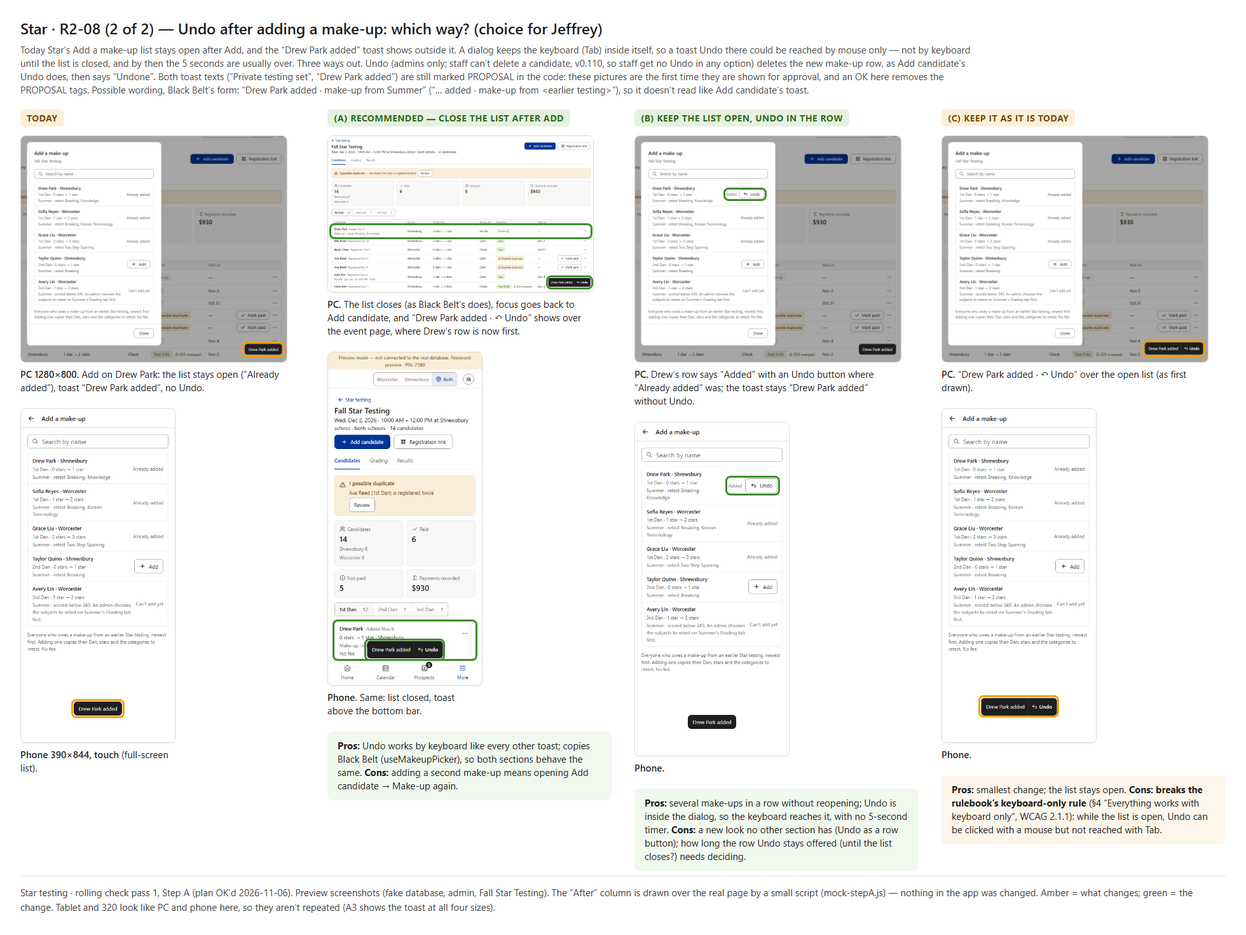
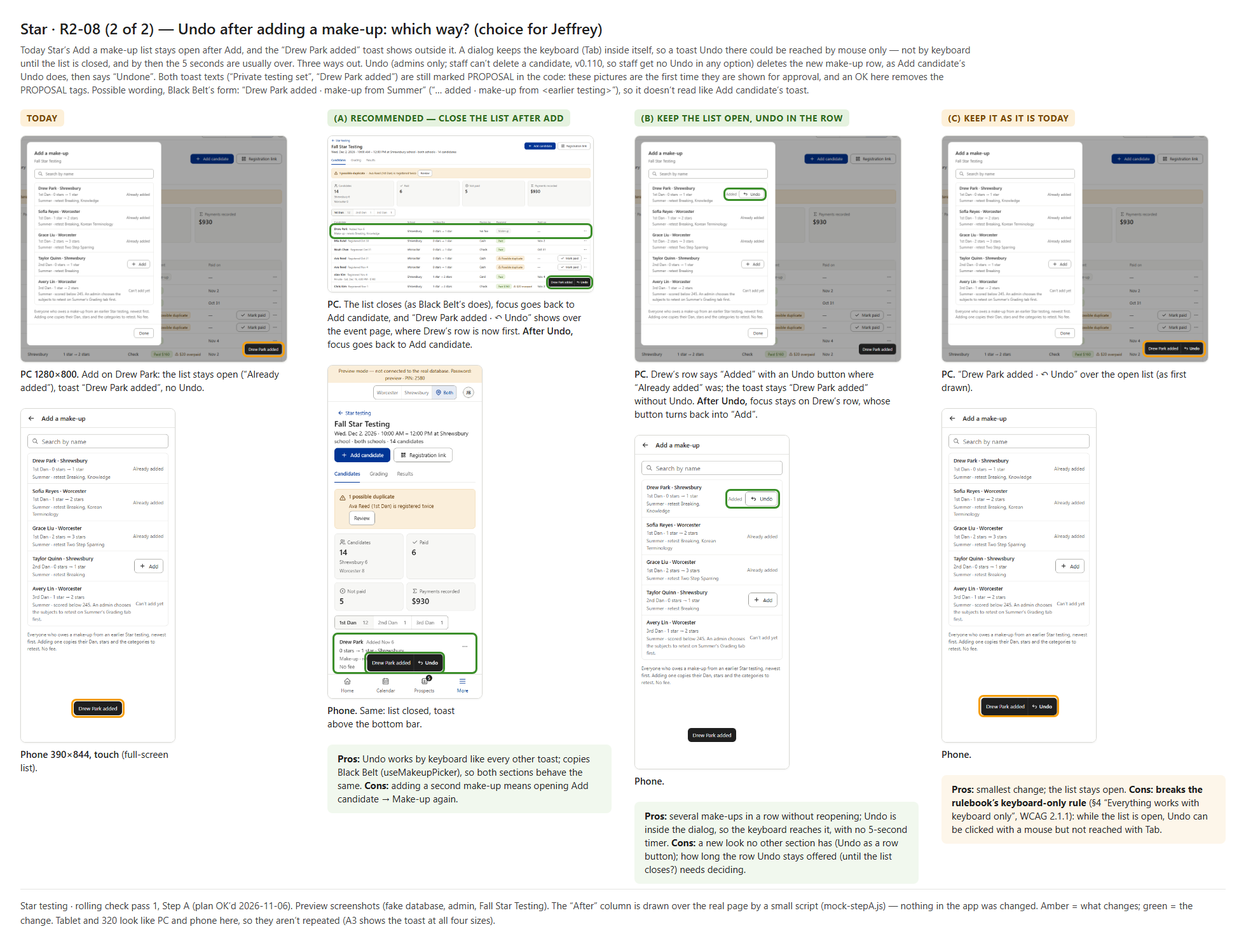
Star: mockups fixed after second review (A3b, B2, C1 as a 640/696 choice)

diff --git a/docs/Testing/Star Testing/Rolling check mockups/C1-roster-room.html b/docs/Testing/Star Testing/Rolling check mockups/C1-roster-room.html
@@ -24,7 +24,7 @@
   .foot { margin-top: 8px; padding-top: 14px; border-top: 1px solid #E5E5E2; color: #3A3A3A; font-size: 15px; line-height: 1.55; }
 </style></head><body>
 <h1>Star · L-02 (pass 2) — the candidate roster follows the room beside the panel</h1>
-<p class="sub">Fall Star Testing, Candidates tab, both schools shown (the widest case: the second line carries the school). Today the roster picks its tablet columns from the window’s width, so with the side panel taking 72 px (Standard) or 96 px (Largest) the Candidate and Testing for columns get squeezed to 40–60 px and text runs into text. After (v1.053, built per v1.130): <code>const narrowRoom = usePageRoomBelow(640); const stacked = isPhone || narrowRoom;</code> for the roster only. <b>Limit: 640 px of room.</b> Below it the roster draws the phone’s stacked rows (the ones phones already show); at 640 and above nothing changes. Dialogs, ⋯ menus and the rest of the page keep following the window.</p>
+<p class="sub">Fall Star Testing, Candidates tab, both schools shown (the widest case: the second line carries the school). Today the roster picks its tablet columns from the window’s width, so with the side panel taking 72 px (Standard) or 96 px (Largest) the Candidate and Testing for columns get squeezed to 40–60 px and text runs into text. After (v1.053, built per v1.130): <code>const narrowRoom = usePageRoomBelow(LIMIT); const stacked = isPhone || narrowRoom;</code> for the roster only. Below the limit the roster draws the phone’s stacked rows (the ones phones already show); at or above it nothing changes. <b>The limit is a choice for you (bottom of the picture): (a) 640 or (b) 696 px of room. Recommended: (b) 696.</b> Every size in the Today/After columns stacks with either limit.Dialogs, ⋯ menus and the rest of the page keep following the window.</p>
 <div class="cols">
 <div class="col today">
   <div class="label">Today</div>
@@ -70,7 +70,7 @@
       <img src="shots/c-683S-after.png" style="left:0px;top:0px;width:546.4px">
       
     </div>
-    <figcaption><b>683 wide, touch, Standard</b> (room beside the panel 611 px). Room 611 &lt; 640: stacked rows. Name + Registered, stars · school, paying by · paid on, tag + Mark paid, ⋯ on the right.</figcaption>
+    <figcaption><b>683 wide, touch, Standard</b> (room beside the panel 611 px). Room 611, under either limit: stacked rows. Name + Registered, stars · school, paying by · paid on, tag + Mark paid, ⋯ on the right.</figcaption>
   </figure><figure style="width:546.4px">
     <div class="shot" style="width:546.4px;height:608px">
       <img src="shots/c-683L-after.png" style="left:0px;top:0px;width:546.4px">
@@ -83,7 +83,7 @@
       <img src="shots/c-700S-after.png" style="left:0px;top:0px;width:560px">
       
     </div>
-    <figcaption><b>700 wide, touch, Standard</b> (room beside the panel 628 px). Room 628 &lt; 640: stacked rows. (Today this size has no text over text, but the columns are too narrow to read — see the Today shot.)</figcaption>
+    <figcaption><b>700 wide, touch, Standard</b> (room beside the panel 628 px). Room 628, under either limit: stacked rows. (Today this size has no text over text, but the columns are too narrow to read — see the Today shot.)</figcaption>
   </figure><figure style="width:560px">
     <div class="shot" style="width:560px;height:608px">
       <img src="shots/c-700L-after.png" style="left:0px;top:0px;width:560px">
@@ -98,14 +98,21 @@
     </div>
     <figcaption><b>667 wide, touch, Largest</b> (room beside the panel 571 px). Room 571: stacked rows; the panel stays on the left (the window is still a tablet’s width).</figcaption>
   </figure>
-  <div class="note"><b>How the limit was measured.</b> The real roster in preview, touch, admin, details shown, both schools (the widest case), Panel size Largest, window 640–1024 px in 1–8 px steps; for each width: the room (the page area’s own <code>data-page-room</code>), text boxes of two cells of one row that overlap, and cells whose text is wider than the cell. <b>Text over text</b> stops at room 617; <b>text sticking out of its column</b> stops at 636 (632 still has 6); 640 is the first clean round number above both and the same as Dashboard core’s sample (<code>parts.html#L02/room</code>). Standard gives the same results at the same room (the room is what counts). With a mouse the actions column is 24 px narrower, so the roster is clean from about 616: 640 covers both. One school selected and Hide private details need less room. PC columns (1024+) are clean at 1024 with Largest (room 928). <b>Your call if you want more:</b> at room 640–695 the tablet columns are clean but tight (names on 4–5 lines, “Testing for” header on 2 lines); from <b>696</b> they look exactly as at 820 (the approved tablet). A limit of 696 would also stack 700 / 720 / 760-wide windows with Largest.</div>
+  <div class="note"><b>How the limit was measured.</b> The real roster in preview, touch, admin, details shown, both schools (the widest case), Panel size Largest, window 640–1024 px in 1–8 px steps; for each width: the room (the page area’s own <code>data-page-room</code>), text boxes of two cells of one row that overlap, and cells whose text is wider than the cell. <b>Text over text</b> stops at room 617; <b>text sticking out of its column</b> stops at 636 (632 still has 6); <b>640</b> is the first round number above both. From room <b>696</b> the columns look exactly as at 820 (the approved tablet): the “Testing for” header fits on one line from 684, and names take at most 3 lines from 692–696. Standard gives the same results at the same room (the room is what counts). With a mouse the actions column is 24 px narrower, so the roster is clean from about 616. One school selected and Hide private details need less room. PC columns (1024+) are clean at 1024 with Largest (room 928). <b>Measured in Chrome on Windows, so in Segoe UI</b> (the app’s font list is system-ui, -apple-system, Segoe UI, Roboto). An iPad draws San Francisco, which is probably a little wider, so the build re-measures in the app’s own font on an iPad before the number is final.</div>
 </div>
 </div>
-<div class="foot"><div class="label" style="background:#ECECE8;color:#3A3A3A">Unchanged</div>
+<div class="foot"><div style="display:flex;gap:36px;align-items:flex-start;margin-bottom:28px">
+<div class="col today" style="flex:1"><div class="label">(a) Limit 640: the tight columns stay</div>
+<figure style="width:576px"><div class="shot" style="width:576px;height:800px"><img src="shots/c-720S-today.png" style="left:0;top:0;width:576px"><div class="mark" style="left:143.20000000000002px;top:116px;width:46.400000000000006px;height:33.6px;border-color:#F59E0B"></div><div class="mark" style="left:81.60000000000001px;top:152.8px;width:65.6px;height:65.6px;border-color:#F59E0B"></div></div><figcaption><b>720 wide, touch, Standard</b> (room 648, between the two limits). No text over text and nothing sticks out, but the Candidate column is about 70 px and Testing for about 42 px. The “Testing for” header takes 2 lines (outlined); names and “Shrewsbury · Registered Oct 30” take 3–5 lines (outlined); “0 stars → 1 star” takes 3.</figcaption></figure>
+<div class="note"><b>Pros:</b> the most columns on screen; Paying by and Payment line up across the rows. <b>Cons:</b> rooms of 640–695 keep columns nobody approved (only the 820 ones were); only 4 px of margin over the overflow measured in Segoe UI, so an iPad’s wider font may make “Shrewsbury” stick out again.</div></div>
+<div class="col after" style="flex:1"><div class="label">(b) Limit 696 (recommended): stacked rows</div>
+<figure style="width:576px"><div class="shot" style="width:576px;height:800px"><img src="shots/c-720S-after.png" style="left:0;top:0;width:576px"></div><figcaption><b>720 wide, touch, Standard</b> (room 648, under 696): the phone’s stacked rows, each line whole.</figcaption></figure>
+<div class="note"><b>Pros:</b> v1.053 says to stack when the room is “too narrow for its tablet columns”, and the only approved tablet columns are the 820 ones, which the roster matches only from 696; it also absorbs font differences between devices. <b>Cons:</b> windows 712–767 wide (Standard) and 736–791 wide (Largest) get the phone rows instead of columns. That includes a 744 iPad mini held upright, and a 768 iPad with Largest. (The phone rows work fully, with touch sizes and no sideways scroll.)</div></div>
+</div><div class="label" style="background:#ECECE8;color:#3A3A3A">Unchanged</div>
 <div class="row">
 <figure style="width:768px"><div class="shot" style="width:768px;height:480px"><img src="shots/c-1280-today.png" style="left:0;top:0;width:768px"></div><figcaption><b>PC 1280×800, mouse</b> (room 1228): PC columns, as today.</figcaption></figure>
 <figure style="width:369px"><div class="shot" style="width:369px;height:531px"><img src="shots/c-820S-today.png" style="left:0;top:0;width:369px"></div><figcaption><b>820×1180 touch, Standard</b> (room 748): tablet columns, as today.</figcaption></figure>
-<figure style="width:369px"><div class="shot" style="width:369px;height:531px"><img src="shots/c-820L-today.png" style="left:0;top:0;width:369px"></div><figcaption><b>820 touch, Largest</b> (room 724 ≥ 640): tablet columns, as today.</figcaption></figure>
+<figure style="width:369px"><div class="shot" style="width:369px;height:531px"><img src="shots/c-820L-today.png" style="left:0;top:0;width:369px"></div><figcaption><b>820 touch, Largest</b> (room 724, above both limits): tablet columns, as today.</figcaption></figure>
 <figure style="width:234px"><div class="shot" style="width:234px;height:506.4px"><img src="shots/c-390-today.png" style="left:0;top:0;width:234px"></div><figcaption><b>390×844 touch</b>: phone rows, as today.</figcaption></figure>
 <figure style="width:192px"><div class="shot" style="width:192px;height:420px"><img src="shots/c-320-today.png" style="left:0;top:0;width:192px"></div><figcaption><b>320 wide, touch</b>: phone rows, as today.</figcaption></figure>
 </div><p style="margin-top:16px"><b>How the pictures were made.</b> Star testing · rolling check pass 2, L-02. Preview screenshots (fake database, admin, Fall Star Testing, “Show both schools”), Panel size set through the Account menu. <b>Today</b> = the app as it is. <b>After</b> = drawn on the real page by mock-room.js: the phone roster’s own markup was copied from the app at a 600 px phone window (same event, same rows) and put in place of the tablet roster at each target size. Its styles (<code>.st-crow-c.is-phone</code>, <code>.ev-srow-main</code> …) are not behind a phone-width rule, so they draw as they will once the roster follows a class. So the rows are exactly the phone’s; what a copy can’t show: buttons don’t work in the drawn roster, and the tablet page around it (summary cards, Dan switch, top bar) is today’s — which is also what the change keeps. Nothing in the app was changed. Amber = text over text, or text sticking out of its column.</p></div>

diff --git a/docs/Testing/Star Testing/Rolling check mockups/B2-date-signed-staff.html b/docs/Testing/Star Testing/Rolling check mockups/B2-date-signed-staff.html
@@ -66,7 +66,7 @@
       <img src="shots/b2-rm-today-p320.png" style="left:0px;top:-171px;width:240px">
       <div class="mark" style="left:8px;top:77px;width:224px;height:65px;border-color:#F59E0B"></div>
     </div>
-    <figcaption><b>320 · removed.</b></figcaption>
+    <figcaption><b>320 · removed.</b> </figcaption>
   </figure></div>
 <figure style="width:396px">
     <div class="shot" style="width:396px;height:330.3px">
@@ -117,7 +117,7 @@
       <img src="shots/b2-rm-a-p320.png" style="left:0px;top:-171px;width:240px">
       <div class="mark" style="left:8px;top:134px;width:224px;height:35.75px;border-color:#3B8F2A"></div>
     </div>
-    <figcaption><b>320 · removed.</b></figcaption>
+    <figcaption><b>320 · removed.</b> </figcaption>
   </figure></div>
   <div class="note"><b>Pros:</b> copies Prospects’ approved “Date signed” row and the family form’s box word for word; the date has the weekday like the Registered row; the Acknowledgment line doesn’t change or wrap more than today. <b>Cons:</b> one more row in the dialog.</div>
 </div>
@@ -148,7 +148,7 @@
       <img src="shots/b2-on-b-p320.png" style="left:0px;top:-178.5px;width:240px">
       <div class="mark" style="left:8px;top:77px;width:224px;height:50px;border-color:#3B8F2A"></div>
     </div>
-    <figcaption><b>320 wide, touch.</b> </figcaption>
+    <figcaption><b>320 wide, touch.</b> The date itself breaks: “Sat, Oct 31, / 2026 · View signature”.</figcaption>
   </figure></div>
 <div class="row"><figure style="width:292.5px">
     <div class="shot" style="width:292.5px;height:187.5px">
@@ -161,9 +161,9 @@
       <img src="shots/b2-rm-b-p320.png" style="left:0px;top:-171px;width:240px">
       <div class="mark" style="left:8px;top:77px;width:224px;height:79.25px;border-color:#3B8F2A"></div>
     </div>
-    <figcaption><b>320 · removed.</b></figcaption>
+    <figcaption><b>320 · removed.</b> The date breaks too: “Sat, Jul 4, / 2026 · signature removed …”, 4 lines.</figcaption>
   </figure></div>
-  <div class="note"><b>Pros:</b> no new row; the date sits right next to the signature it belongs to. <b>Cons:</b> the line wraps at every size (2 lines with the link, 3 when removed), and two dates sit in one line in the removed state, which is harder to read.</div>
+  <div class="note"><b>Pros:</b> no new row; the date sits right next to the signature it belongs to. <b>Cons:</b> the line wraps at every size (2 lines with the link, 3 when removed); at 320 the date signed itself breaks across lines (“Sat, Oct 31, / 2026”), unless the build also keeps the date in one piece; and two dates sit in one line in the removed state, which is harder to read.</div>
 </div>
 </div>
 <div class="foot">Rulebook v0.638 (Jeffrey, 2026-11-04): every family form shows “Date signed” under the signature, filled in automatically with the day the form is sent, gray, can’t be changed; wherever staff see a signature, its date signed shows with it. Preview screenshots (fake database, today = Fri, Nov 6, 2026). The “After” column is drawn over the real page by a small script (mock-dates.js) — nothing in the app was changed. No database change: the day the form is sent is already saved (star_candidate_signatures.signed_at). For a family-form registration the date signed is the same day as “Registered” (the signature is saved when the form is sent) — by design; v0.638 still asks for it.</div>

diff --git a/docs/Testing/Star Testing/Rolling check mockups/A3b-makeup-options.html b/docs/Testing/Star Testing/Rolling check mockups/A3b-makeup-options.html
@@ -51,7 +51,7 @@
       <img src="shots/A3b-a-pc.png" style="left:-20.7px;top:-31.049999999999997px;width:441.59999999999997px">
       <div class="mark" style="left:342.72499999999997px;top:218.86999999999998px;width:73.895px;height:21.799999999999997px;border-color:#3B8F2A"></div><div class="mark" style="left:1.8649999999999993px;top:137.105px;width:414.40999999999997px;height:24.56px;border-color:#3B8F2A"></div>
     </div>
-    <figcaption><b>PC.</b> The list closes (as Black Belt’s does), focus goes back to Add candidate, and “Drew Park added · ↶ Undo” shows over the event page, where Drew’s row is now first.</figcaption>
+    <figcaption><b>PC.</b> The list closes (as Black Belt’s does), focus goes back to Add candidate, and “Drew Park added · ↶ Undo” shows over the event page, where Drew’s row is now first. <b>After Undo,</b> focus goes back to Add candidate.</figcaption>
   </figure>
 <figure style="width:241.8px">
     <div class="shot" style="width:241.8px;height:523.28px">
@@ -69,7 +69,7 @@
       <img src="shots/A3b-b-pc.png" style="left:-192px;top:-28.799999999999997px;width:614.4px">
       <div class="mark" style="left:139.04px;top:80.47999999999999px;width:68px;height:21.439999999999998px;border-color:#3B8F2A"></div>
     </div>
-    <figcaption><b>PC.</b> Drew’s row says “Added” with an Undo button where “Already added” was; the toast stays “Drew Park added” without Undo.</figcaption>
+    <figcaption><b>PC.</b> Drew’s row says “Added” with an Undo button where “Already added” was; the toast stays “Drew Park added” without Undo. <b>After Undo,</b> focus stays on Drew’s row, whose button turns back into “Add”.</figcaption>
   </figure>
 <figure style="width:241.8px">
     <div class="shot" style="width:241.8px;height:523.28px">

diff --git a/docs/Testing/Star Testing/Rolling check mockups/review-notes.md b/docs/Testing/Star Testing/Rolling check mockups/review-notes.md
@@ -69,3 +69,101 @@ Read-only review. Checked against the rulebook (§1.4, §2.4 icon map, §3.5, §
   - Show Jeffrey both, with (a) as the recommendation.
 - **Note only:** for a family-form registration the date signed is always the same day as the Registered row (the signature is saved when the form is sent). v0.638 still asks for it, so it's right to add. If Jeffrey asks "isn't that the same date?", the answer is yes, by design.
 - **Sizes present:** PC, tablet and phone. The View signature dialog not changing is shown and correct (`SignatureDialog.jsx:36` / `text.js:274` already has the date and time).
+
+---
+
+## Second review (independent reviewer, 2026-11-06)
+
+Re-checked the redrawn A2, A3, A3b, B1, B2 and reviewed the new C1. Read-only; nothing in the app changed.
+
+| Picture | Verdict | One line |
+|---|---|---|
+| A2 grayed Email result | **OK** | Both SHOULDs done: the line is amber in Today and the caption says it doesn't change (`A2-email-grayed.html:27`); the build note limits aria-describedby to "hidden" only (`:101`). |
+| A3 Undo toasts | **OK** | Make-up toast moved to its own choice (A3b); the "dialog has already closed, reachable by mouse and keyboard" claim is now true for the only toast left (`A3-undo-toasts.html:27`); PROPOSAL wording fixed. |
+| A3b make-up Undo options | **OK** (1 SHOULD) | Keyboard problem stated plainly; (c) labelled as breaking §4 / WCAG 2.1.1; pros/cons fair; Black Belt's wording offered. Missing: where focus goes after Undo. |
+| B1 Date signed on the form | **OK** | Label drawn 12 px on every size, caption says the build matches `.reg-field--sign` (`B1-date-signed-form.html:94`). |
+| B2 Date signed for staff | **OK** (1 SHOULD) | 320 and removed states drawn for Today, (a) and (b); (a) keeps the date after removal, as v0.635 says. Option (b) splits the date itself across lines at 320. |
+| C1 roster room | **MUST-FIX** (+2 SHOULDs) | Today/After honest and well measured, but the 696 alternative is offered as "your call" without a picture, and the measurement used one font only. |
+
+### A2 — OK
+- Today now outlines the "Email result is off…" line in amber at every size, and the caption says "The 'Email result is off …' line itself doesn't change; it is outlined because the button now points at it" (`A2-email-grayed.html:27`). First review's picture SHOULD is done.
+- The green note says aria-describedby points at the line "only while private details are hidden — not while the button is only busy" (`:101`). First review's build SHOULD is done.
+
+### A3 — OK
+- The subtitle (`A3-undo-toasts.html:27`) now says the make-up toast is a separate choice (A3b), and that both toast texts are still PROPOSAL and an OK removes the tags. Both first-review wording SHOULDs are done.
+- The note "hovering or focusing the toast pauses the time" now only covers "Private testing set", whose dialog has closed before the toast shows. That's true.
+- The tablet "bottom row under the toast" build check is still written down. Good.
+
+### A3b — OK, 1 SHOULD
+- **Honest:** the subtitle explains *why* (Tab stays inside the dialog), and (c) is drawn as it is today with the con in bold: "breaks the rulebook's keyboard-only rule (§4 …, WCAG 2.1.1)" (`A3b-makeup-options.html:99`). It isn't hidden or softened.
+- **Fair:**
+  - (a)'s con, reopening Add candidate → Make-up for each extra make-up, is the real cost.
+  - (b)'s cons are real: it's a new look, and nobody has decided how long the row Undo stays (`:81`).
+  - The (b) row Undo is the row's own Add button, renamed, with an aria-label "Undo adding Drew Park" (`mock-stepA.js:96–102`). So its touch size is the Add button's, not a new smaller target.
+- **Facts check out:**
+  - (a) "focus goes back to Add candidate" (`:54`) matches the code. The picker is opened from the Add candidate menu (`CandidatesTab.jsx:1113`, `openMakeups(menu.anchor)`), and Black Belt closes, then `focusSoon(opener)` (`useMakeupPicker.js:87–92`).
+  - Staff get no Undo in any option (v0.110). Correct.
+  - Black Belt's "… added · make-up from <earlier testing>" wording is offered in the subtitle. Good.
+- **SHOULD (still open from the first review):** say where focus goes **after Undo**.
+  - In (a), the toast's Undo button disappears when the toast turns to "Undone", and Drew's row is deleted. Without a target, focus falls to the page body. Suggest: back to Add candidate, the same place focus went after the Add.
+  - In (b), focus stays on Drew's row, whose button turns back into "Add".
+  - One line in each option's note is enough.
+
+### B1 — OK
+- The touch label is drawn at 12 px, and the tablet/phone captions say "Label 12 px, the same as 'Signature' above it" / "both labels 12 px".
+- The green note gives the build two ways to do it: put the box inside `.reg-field--sign`, or give its label 12 px (`B1-date-signed-form.html:94`). The first review's SHOULD is done.
+- The New-students reference shot and its caption explain why this is 12 px and not 13 px. Clear.
+
+### B2 — OK, 1 SHOULD
+- **320 is there** for Today, (a) and (b), each with the signature on file and removed (`B2-date-signed-staff.html:53–69, 104–120, 148–164`). The first review's MUST-FIX is done.
+- **Removed state follows v0.635** (rulebook line 970: the date signed "stays after the signature picture is deleted"):
+  - In (a), the "Date signed · Sat, Jul 4, 2026" row stays under "Ticked and signed · signature removed Oct 31, 2026 (deleted 90 days after the testing day)" (`:94`). This is how Color Belt, Black Belt and Prospects keep it. The first review's MUST-FIX is done.
+  - In (b), the date is folded into the line (`:138`). Also correct, just long.
+- **Choice drawn fairly:**
+  - (a) is recommended. Its pros/cons say it copies Prospects' row and the family box, adds the weekday, and costs one more row.
+  - (b)'s con, "wraps at every size … two dates in one line", is honest (`:166`).
+- **Tablet left out:** the subtitle says the candidate detail is the same centred dialog on tablet as on PC. That's acceptable for this one-row change.
+- **SHOULD (option b only):** at 320, (b) breaks inside the date: "Ticked and signed Sat, Oct 31, / 2026 · View signature", and the removed state does the same with "Sat, Jul 4, / 2026". The 320 caption doesn't say so (`:151`, empty caption). Either add "the date itself breaks at 320" to (b)'s cons, or say the build keeps the date in one piece (non-breaking spaces). This is one more point for (a). It doesn't block, because (a) is the recommendation.
+
+### C1 — L-02 roster room · MUST-FIX, 2 SHOULDs
+
+**What's right**
+- Matches Fix-Star pass 2 L-02 (`docs/Design Review/Rolling check/Pass 2/Fix-Star.md:53–62`). It shows 683 and 700 wide with Standard and Largest, plus 667 × 375 sideways, which the fix list names. It also shows 1280 / 820 Standard / 820 Largest / 390 / 320 unchanged.
+- The room numbers add up: window minus 72 or 96 (683 → 611 / 587, 700 → 628 / 604, 667 → 571, 820 → 748 / 724).
+- Follows v1.130 (rulebook line 1012) and `src/lib/pageRoom.js:18–34`:
+  - A class follows `usePageRoomBelow(limit)`.
+  - Only the roster switches. Dialogs and ⋯ menus keep the window, said in the subtitle.
+  - The phone rows' styles aren't behind a phone-width @media rule.
+  - The roster isn't drawn at the 1023.98 window rule (`star.css:886`).
+- **Method is honest** (`C1-roster-room.html:111`):
+  - It says plainly that After is the phone roster's own markup, copied at a 600 px window and swapped in.
+  - It says the buttons in the drawn roster don't work, and the page around the roster is today's.
+  - It says nothing in the app changed.
+  - `mock-room.js` does what it says: real overlap measured with `Range.getClientRects` per text line, cell by cell.
+  - The 617 / 636 thresholds come from 1–8 px steps on the real roster in the widest case (both schools, details shown, Largest).
+  - This is the right way to pick a limit. It's better than the parts page's sample.
+
+**MUST-FIX: the 696 alternative is offered but not drawn.**
+- The note ends "Your call if you want more: … from 696 they look exactly as at 820" (`:101`). That makes it a choice for Jeffrey.
+- CLAUDE.md says "show each option visually". The picture shows neither a 640–695 room with the "tight" columns (names on 4–5 lines, "Testing for" on 2 lines) nor what 696 would stack.
+- Add one Today/After pair at a window in that band. For example, 720 wide touch Standard (room 648): with limit 640 it keeps tight columns; with limit 696 it gets stacked rows. Then he can see what he's choosing between.
+- Or drop the alternative and state the limit as the drawer's decision. But see the recommendation below.
+
+**SHOULD: the limit was measured in one font only.**
+- The app's font is `system-ui, -apple-system, 'Segoe UI', Roboto, sans-serif` (`src/styles/tokens.css`). The measurements were taken in Chrome on Windows, which uses Segoe UI.
+- On an iPad, the text is in San Francisco, which is generally wider than Segoe UI at the same size. So "Shrewsbury" in its 61 px column will stick out at a larger room than 636. A limit of 640 leaves 4 px of margin over the measured overflow.
+- The note should say which browser and font it measured in. If possible, also re-measure once with Safari or WebKit, or with `-apple-system` forced.
+
+**SHOULD: "the same as Dashboard core's sample" is not a reason.**
+- `src/parts/L02.jsx:18` is `SAMPLE_ROOM = 640`, "the sample roster's limit". It describes the parts page's made-up roster.
+- v1.130 says each roster's limit is its own, written once.
+- No section roster on `main` calls the hook yet (`git grep usePageRoomBelow main` finds only `pageRoom.js`, `L02.jsx` and the checks). Color Belt's uncommitted worktree has `ROSTER_ROOM = 0` as a placeholder (`color-belt-session-01afc8/src/screens/testing/event/EventPage.jsx:128`). Camps and Black Belt have nothing.
+- So there is no section number to match. Drop the "same as the sample" wording so it doesn't read as a rule.
+
+**640 vs 696: recommend 696.**
+- **640 is the bare minimum.** It's 4 px over the overflow measured in Segoe UI. It keeps columns in which names break to 4–5 lines. That is "no overlap", but hardly "fits": the Today 700-Standard shot already shows the names breaking.
+- **Rulebook wording:** v1.053 (rulebook line 56) says the phone layout is used "when that room is too narrow for its tablet columns". The tablet columns approved and drawn are the 820 ones, and they look like 820 only from 696.
+- **Cost of 696:** windows of 712–767 (Standard) and 736–791 (Largest) get the approved phone rows. Those rows work fully, use touch sizes, and need no sideways scroll. On a 744 iPad mini or a 768 iPad with Largest, the roster would be stacked rather than tight columns.
+- **Benefit of 696:** it absorbs font differences between devices. And it removes the 640–695 band, where nobody has approved the columns.
+- **If Jeffrey prefers the most columns:** 640 is defensible only after a measurement in the iPad's font confirms the margin.
+
